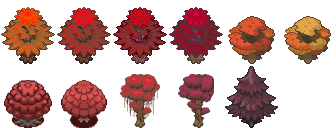
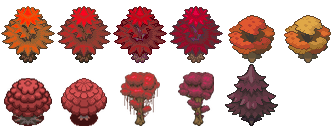
Tour Carillon : torii, pagodes, sanctuaires, clôtures et piliers Edo
- nouveaux types de décor `pagoda`, `shrine`, `chapel`, `fence`, `ruin` (maps.js) posés après tout le reste avec un tirage aléatoire à part : décors, coffres, feux et ennemis de la carte restent identiques (vérifié par hash), tout reste accessible
- le torii existant prend le sprite `torii_bell`
- sprites : planche Shinto Temple Buildings (torii, grande pagode, grand et petit sanctuaires, toits recolorés vin) + pagodes et temples de Gen 4/5 recolorés carmin, clôtures et piliers brisés (assets/props/edo_*.png, props.json)
- lumière chaude sur sanctuaires et chapelles ; crédits, sw.js v68, README des props, outil tools/edo

Claude-Session: https://claude.ai/code/session_01UgjerJFwuUbKpmG3RBZnLe

diff --git a/js/maps.js b/js/maps.js
@@ -13,7 +13,8 @@ export const THEMES = {
   lava: { floor: [66, 40, 38], arena: [78, 42, 34], wallA: '#5a3430', wallB: '#56302c', face: '#321a18', faceTop: '#8a5040', accent: [255, 130, 50], accent2: [255, 200, 90], fx: 'lava', amb: [200, 150, 130], ambArena: [210, 130, 100], decor: ['brazier', 'rock', 'crystal'] },
   rock: { floor: [72, 64, 58], arena: [86, 72, 52], wallA: '#5e5248', wallB: '#5a4e44', face: '#38302a', faceTop: '#8a7a68', accent: [255, 200, 110], accent2: [200, 170, 120], fx: 'stone', amb: [175, 165, 155], ambArena: [185, 160, 120], decor: ['rock', 'pillar', 'brazier'] },
   // Johto : Japon d'Edo (bois sombre, papier, laque, lanternes). Tour Carillon : jardins et cours d'un temple en plein air, sous l'orage
-  bell: { floor: [92, 88, 80], arena: [128, 122, 108], wallA: '#6e675c', wallB: '#675f55', face: '#3a342e', faceTop: '#9a9080', accent: [255, 206, 96], accent2: [130, 200, 255], fx: 'garden', open: true, amb: [196, 184, 182], ambArena: [214, 190, 160], decor: ['lantern', 'tree', 'bell', 'torii', 'tree'] },
+  bell: { floor: [92, 88, 80], arena: [128, 122, 108], wallA: '#6e675c', wallB: '#675f55', face: '#3a342e', faceTop: '#9a9080', accent: [255, 206, 96], accent2: [130, 200, 255], fx: 'garden', open: true, amb: [196, 184, 182], ambArena: [214, 190, 160], decor: ['lantern', 'tree', 'bell', 'torii', 'tree'],
+    scenery: { rooms: { 1: ['chapel'], 2: ['pagoda'], 3: ['shrine'], 4: ['chapel'], 5: ['pagoda'], 6: ['shrine'] }, fence: 1, ruin: 1 } },   // bâtiments adossés au bord nord des salles, clôtures et piliers brisés (posés après tout le reste)
   mystic: { floor: [36, 68, 62], arena: [52, 50, 86], wallA: '#27494a', wallB: '#244446', face: '#142a2c', faceTop: '#3e7a76', accent: [255, 170, 230], accent2: [160, 255, 220], fx: 'moss', amb: [150, 180, 175], ambArena: [150, 130, 200], decor: ['tree', 'crystal', 'statue'] },
 };
 
@@ -67,7 +68,7 @@ setChapter('kanto');
 function rng(seed) { let s = seed >>> 0 || 1; return () => { s ^= s << 13; s >>>= 0; s ^= s >>> 17; s ^= s << 5; s >>>= 0; return s / 4294967296; }; }
 const rnd = (x, y, s = 0) => { let h = (x * 374761393 + y * 668265263 + s * 2147483647) | 0; h = (h ^ (h >>> 13)) * 1274126177; return ((h ^ (h >>> 16)) >>> 0) / 4294967295; };
 
-const FOOT = { tank: [2, 2], tankbroken: [2, 2], pillar: [1, 1], mirror: [1, 1], console: [2, 1], rock: [1, 1], crystal: [1, 1], brazier: [1, 1], generator: [2, 2], tree: [2, 2], statue: [1, 1], chest: [1, 1], lantern: [1, 1], bell: [2, 2], torii: [2, 1] };
+const FOOT = { tank: [2, 2], tankbroken: [2, 2], pillar: [1, 1], mirror: [1, 1], console: [2, 1], rock: [1, 1], crystal: [1, 1], brazier: [1, 1], generator: [2, 2], tree: [2, 2], statue: [1, 1], chest: [1, 1], lantern: [1, 1], bell: [2, 2], torii: [2, 1], pagoda: [3, 1], shrine: [4, 1], chapel: [3, 1], fence: [1, 1], ruin: [1, 1] };
 
 // ---------- carte du laboratoire (dessinée à la main) ----------
 const LAB = (() => {
@@ -266,6 +267,21 @@ function generate(def) {
       }
     }
   }
+  // Décors Edo (th.scenery) : posés en dernier, avec un tirage aléatoire à part et sans toucher à ce qui existe déjà (décors, coffres, feux, ennemis restent identiques).
+  // Bâtiments adossés au bord nord des salles (le sprite déborde vers le haut, derrière le joueur), clôtures en petites rangées sur les bords, piliers brisés.
+  if (def.scenery) {
+    const S = def.scenery, R2 = rng((def.seed * 7 + 977) >>> 0);
+    if (secret) secret.gap.forEach(([gx, gy]) => reserve(gx, gy, 1, 1, 1));   // l'entrée de la salle secrète reste dégagée
+    const put = (kind, x, y, k, pad, vseed) => { const [w, h] = FOOT[kind]; if (!free(x, y, w, h)) return false; reserve(x, y, w, h, pad); decor.push({ kind, tx: x, ty: y, room: k, vseed }); return true; };   // vseed : variante imposée (une rangée de clôture garde le même modèle)
+    rooms.forEach((r, k) => {
+      for (const kind of (S.rooms[k] || [])) { const w = FOOT[kind][0]; for (let t = 0; t < 40; t++) if (put(kind, r.x + 1 + Math.floor(R2() * Math.max(1, r.w - 2 - w + 1)), r.y, k, 1)) break; }
+      for (let n = 0; n < (S.fence || 0) && k > 0; n++) {   // rangée de 2 à 4 morceaux sur le bord nord ou sud
+        const len = 2 + Math.floor(R2() * 3), y = R2() < 0.5 ? r.y : r.y + r.h - 1, vs = Math.floor(R2() * 2);
+        for (let t = 0; t < 20; t++) { const x = r.x + 1 + Math.floor(R2() * Math.max(1, r.w - 2 - len + 1)); if (!free(x, y, len, 1)) continue; for (let i = 0; i < len; i++) put('fence', x + i, y, k, 0, vs); break; }
+      }
+      for (let n = 0; n < (S.ruin || 0) && k > 0; n++) for (let t = 0; t < 30; t++) if (put('ruin', r.x + 1 + Math.floor(R2() * (r.w - 2)), r.y + 1 + Math.floor(R2() * (r.h - 2)), k, 1)) break;
+    });
+  }
   return { rooms, decor, spawns, chests, arena, door, fog, bonfires, start, grid, roomOf, secret, modules };
 }
 
@@ -283,12 +299,12 @@ export function buildWorld(idx) {
     for (const d of L.decor) { const [w, h] = FOOT[d.kind]; for (let j = 0; j < h; j++) for (let i = 0; i < w; i++) grid[(d.ty + j) * MW + d.tx + i] = T.SOLID; }
     LAB.door.tiles.forEach(([x, y]) => { grid[y * MW + x] = T.DOOR; }); LAB.fog.tiles.forEach(([x, y]) => { grid[y * MW + x] = T.FOG; });
   } else {
-    const g = generate({ ...def, decorKinds: th.decor });
+    const g = generate({ ...def, decorKinds: th.decor, scenery: th.scenery });
     L = g;
     for (const d of L.decor) { const [w, h] = FOOT[d.kind]; for (let j = 0; j < h; j++) for (let i = 0; i < w; i++) L.grid[(d.ty + j) * MW + d.tx + i] = T.SOLID; }
   }
   for (const c of L.chests) L.grid[c.ty * MW + c.tx] = T.SOLID;
-  for (const d of L.decor) { const [w, h] = FOOT[d.kind]; d.w = w; d.h = h; d.seed = (d.tx * 31 + d.ty * 17) % 97; }
+  for (const d of L.decor) { const [w, h] = FOOT[d.kind]; d.w = w; d.h = h; d.seed = d.vseed ?? (d.tx * 31 + d.ty * 17) % 97; }
   Object.assign(world, { grid: L.grid, roomOf: L.roomOf, rooms: L.rooms, decor: L.decor, spawns: L.spawns, arena: L.arena, door: L.door, fog: L.fog, bonfires: L.bonfires, start: L.start, chests: L.chests.map((c, i) => ({ ...c, id: i })), secret: L.secret ? { ...L.secret, opened: false } : null, modules: L.modules || [] });
   computeWall(world);
   return world;
@@ -561,6 +577,7 @@ export function decorLight(world, d, opened) {
   if (d.kind === 'brazier') return { x: (d.tx + 0.5) * TS, y: (d.ty + 0.1) * TS, r: 70, c: [255, 150, 60] };
   if (d.kind === 'lantern') return { x: (d.tx + 0.5) * TS, y: (d.ty + 0.1) * TS, r: 74, c: [255, 190, 90] };
   if (d.kind === 'bell') return { x: (d.tx + 1) * TS, y: (d.ty + 0.4) * TS, r: 48, c: [130, 180, 255] };
+  if (d.kind === 'chapel' || d.kind === 'shrine') return { x: (d.tx + d.w / 2) * TS, y: (d.ty + 0.6) * TS, r: 64, c: [255, 170, 100] };
   if (d.kind === 'generator') return { x: (d.tx + 1) * TS, y: (d.ty + 0.3) * TS, r: 50, c: A };
   if (d.kind === 'tree') return { x: (d.tx + 1) * TS, y: (d.ty + 0.2) * TS, r: 56, c: A };
   if (d.kind === 'statue') return { x: (d.tx + 0.5) * TS, y: (d.ty + 0.3) * TS, r: 28, c: th.accent2 };

diff --git a/js/ui.js b/js/ui.js
@@ -290,7 +290,7 @@ export function showCredits(onClose) {
   const m = open(`<div class="panel wide"><h2>Crédits</h2>
     <h4>Musique libre de repli (OpenGameArt.org)</h4><div class="cred">${Object.entries(TRACKS).filter(([, t]) => t.url).map(([id, t]) => `<div class="krow"><span><b>${esc(t.title)}</b> — ${esc(t.author)} <small>(${esc(t.use)})</small></span><a href="${t.url}" target="_blank" rel="noopener">${esc(t.license)}</a></div>`).join('')}</div>
     <h4>Sprites</h4><p class="sub">PMDCollab SpriteCollab (CC BY-NC 4.0), merci à tous les artistes du projet.</p>
-    <h4>Décors et objets</h4><p class="sub">Icônes d'objets : PokéAPI/sprites (Nintendo / Game Freak). Poké Ball : sprite de Pokémon Rubis/Saphir (Game Freak / Nintendo) via The Spriters Resource. Feu de camp et cristaux/piliers de glace : feuilles pixel art fournies pour le projet (auteurs à préciser). Arbres de la Tour Carillon (érables) : tilesets Pokémon de ChaoticCherryCake et Red Autumn Forest de CertifiedDonTheShark (DeviantArt), recolorés pour le projet.</p>
+    <h4>Décors et objets</h4><p class="sub">Icônes d'objets : PokéAPI/sprites (Nintendo / Game Freak). Poké Ball : sprite de Pokémon Rubis/Saphir (Game Freak / Nintendo) via The Spriters Resource. Feu de camp et cristaux/piliers de glace : feuilles pixel art fournies pour le projet (auteurs à préciser). Arbres de la Tour Carillon (érables) : tilesets Pokémon de ChaoticCherryCake, Justin8964 et HongGBA, Red Autumn Forest de CertifiedDonTheShark, Shinto Temple Buildings d'Unusable (DeviantArt), découpés et recolorés pour le projet ; torii, sanctuaires et pagodes Edo de la Tour Carillon.</p>
     <h4>Effets d'attaque</h4><p class="sub">effets pixel art de PMDCollab / Pokémon Mystery Dungeon (projet de fan non commercial) ; Dämmerlicht BFX par KotatsuAkira (gratuit, crédit demandé) ; PIPO Fire par PIPOSCHPATZ (CC BY 4.0) ; Water Cannon par Anton Chi.</p>
     <h4>Mentions</h4><p class="sub">Pokémon est une marque de Nintendo / Creatures Inc. / GAME FREAK inc. Ce fan game non commercial n'est ni affilié ni approuvé par eux. Code et effets sonores : ce dépôt.</p>
     <div class="act"><button id="m-close">Fermer</button></div></div>`);

diff --git a/sw.js b/sw.js
@@ -2,7 +2,7 @@
 // - Code et données (HTML, JS, CSS, JSON) : réseau d'abord, copie locale si hors ligne ou réseau lent, donc les mises à jour arrivent tout de suite.
 // - Médias (assets/ : sprites, effets, musiques) : copie locale d'abord, remplie au fil du jeu. Ce qui a déjà été joué reste disponible hors ligne.
 // Changer VERSION invalide toutes les copies locales.
-const VERSION = 'v67';
+const VERSION = 'v68';
 const SHELL = `pokesouls-shell-${VERSION}`;
 const MEDIA = `pokesouls-media-${VERSION}`;
 const SHELL_FILES = [

diff --git a/tools/edo/build_edo.py b/tools/edo/build_edo.py
@@ -9,7 +9,19 @@ SRC, OUT = sys.argv[1], sys.argv[2]; os.makedirs(OUT, exist_ok=True)
 F = {'c4': 'pokemon_tileset_from_public_tiles_by_chaoticcherrycake_d5xdb0y.png',
      'jh': 'dppt_and_hgss_tileset_by_justin8964_dg9nal7.png',
      'red': 'red_autumn_forest_tileset_pokemon_essentials_gen_3_by_certifieddontheshark_dl706n1.png'}
-A = {k: seg.load(os.path.join(SRC, v)) for k, v in F.items()}
+F['sh'] = 'shinto_temple_buildings_by_unusable_djfv2wn.png'
+def find(v):
+    for d in ('', 'japanese-tileset'):
+        p = os.path.join(SRC, d, v)
+        if os.path.exists(p): return p
+    raise FileNotFoundError(v)
+def load_flat(path, bg=(128, 125, 120), tol=3):
+    # planche à fond uni opaque : le fond est ôté par remplissage depuis les bords
+    from scipy import ndimage as ndi
+    a = np.array(Image.open(path).convert('RGBA')); m = (np.abs(a[..., :3].astype(int) - np.array(bg)).max(axis=2) <= tol)
+    lab, n = ndi.label(m); border = set(np.unique(np.concatenate([lab[0], lab[-1], lab[:, 0], lab[:, -1]]))) - {0}
+    a[np.isin(lab, list(border))] = 0; return a
+A = {k: (load_flat(find(v)) if k == 'sh' else seg.load(find(v))) for k, v in F.items()}
 
 def rgb2hsv(a):
     r, g, b = [a[..., i].astype(np.float32) / 255 for i in range(3)]
@@ -91,6 +103,15 @@ add('ruin_pillar_a', crop('c4', (864, 893, 897, 960)), 'pilier brisé')
 add('ruin_pillar_b', crop('c4', (864, 960, 897, 1026)), 'pilier brisé haut')
 add('bridge_red',   crop('c4', (10, 1170, 530, 1350)), 'pont rouge en arc')
 
+
+# ---------- sanctuaire shinto (planche d'Unusable) : toits olive -> vin, piliers vermillon conservés ----------
+def wine(a): return recolor(a, 30, 95, 352, keep=0.35, sat=0.95, val=0.82, smin=0.12)
+add('torii_vermilion', wine(crop('sh', (835, 83, 1049, 248), True)), 'torii vermillon, toit vin')
+add('pagoda_shinto',   wine(crop('sh', (512, 63, 769, 510), True)), 'pagode shinto 3 étages, toits vin')
+add('shrine_hall',     wine(crop('sh', (81, 190, 452, 511), True)), 'grand sanctuaire, toits vin')
+add('shrine_small',    wine(crop('sh', (858, 284, 1044, 510), True)), 'petit sanctuaire, toits vin')
+add('pagoda_shinto_o', crop('sh', (512, 63, 769, 510), True), 'pagode shinto, toits d\'origine (olive)')
+
 # ---------- planche de contrôle ----------
 names = list(S); cols = 6; sc = 2; pad = 10
 cw = max(max(S[n][0].shape[1] for n in names), 120) * sc + pad; ch = 0
@@ -113,15 +134,30 @@ for n, (arr, note) in S.items(): Image.fromarray(arr).save(os.path.join(OUT, 'sp
 json.dump({n: {'w': int(S[n][0].shape[1]), 'h': int(S[n][0].shape[0]), 'note': S[n][1]} for n in S}, open(os.path.join(OUT, 'sprites.json'), 'w'), ensure_ascii=False, indent=1)
 print(len(S), 'sprites', sheet.size)
 
-# ---------- feuille de jeu : arbres de la Tour Carillon (props.json -> tree_bell) ----------
+# ---------- feuilles de jeu (assets/props/edo_*.png) + entrées props.json ----------
+# Chaque feuille : cellules uniformes, sprites centrés, pieds en bas, réduits à l'échelle donnée (l'empreinte d'un décor est en cases de 24 px).
+PACKS = {
+  'trees':  ('tree_bell',   6, [('momiji_gold', 1), ('momiji_vermilion', 1), ('momiji_red', 1), ('momiji_carmine', 1), ('tree_autumn0', 1), ('tree_autumn1', 1),
+                                ('tree_red_a', .5), ('tree_red_b', .5), ('momiji_big', .5), ('momiji_big2', .5), ('tree_cypress', 1)]),
+  'torii':  ('torii_bell',  1, [('torii_vermilion', .28)]),
+  'pagoda': ('pagoda_bell', 3, [('pagoda_shinto', .27), ('pagoda_purple', .5), ('pagoda_blue', .55)]),
+  'shrine': ('shrine_bell', 2, [('shrine_hall', .26), ('temple_purple', .68)]),
+  'chapel': ('chapel_bell', 3, [('shrine_small', .31), ('house_purple', 1), ('hut_thatch', 1), ('shrine_red', .75)]),
+  'fence':  ('fence_bell',  2, [('fence_picket', .5), ('fence_slat', .5)]),
+  'ruin':   ('ruin_bell',   2, [('ruin_pillar_a', .6), ('ruin_pillar_b', .6)]),
+}
+def scaled(n, k):
+    im = Image.fromarray(S[n][0])
+    if k != 1: im = im.convert('RGBa').resize((max(1, round(im.width * k)), max(1, round(im.height * k))), Image.LANCZOS).convert('RGBA')
+    return im
 if len(sys.argv) > 3:
-    PACK = [('momiji_gold', 1), ('momiji_vermilion', 1), ('momiji_red', 1), ('momiji_carmine', 1), ('tree_autumn0', 1), ('tree_autumn1', 1),
-            ('tree_red_a', .5), ('tree_red_b', .5), ('momiji_big', .5), ('momiji_big2', .5), ('tree_cypress', 1)]   # (sprite, échelle) : l'empreinte d'un arbre fait 2x2 cases (48 px)
-    CW, CH = 56, 64; COLS = 6; rows_n = (len(PACK) + COLS - 1) // COLS
-    sheet2 = Image.new('RGBA', (CW * COLS, CH * rows_n), (0, 0, 0, 0))
-    for i, (n, k) in enumerate(PACK):
-        im = Image.fromarray(S[n][0])
-        if k != 1: im = im.convert('RGBa').resize((max(1, round(im.width * k)), max(1, round(im.height * k))), Image.LANCZOS).convert('RGBA')
-        assert im.width <= CW and im.height <= CH, (n, im.size)
-        sheet2.alpha_composite(im, ((i % COLS) * CW + (CW - im.width) // 2, (i // COLS) * CH + CH - im.height))   # centré, pieds en bas
-    sheet2.save(sys.argv[3]); print('arbres', sheet2.size, 'frames', len(PACK), 'cellule', CW, CH)
+    ASSET = sys.argv[3]; db = {}
+    for name, (key, cols, items) in PACKS.items():
+        ims = [scaled(n, k) for n, k in items]; cw = max(i.width for i in ims) + 2; ch = max(i.height for i in ims) + 1
+        cols = min(cols, len(ims)); rows_n = (len(ims) + cols - 1) // cols
+        sheet2 = Image.new('RGBA', (cw * cols, ch * rows_n), (0, 0, 0, 0))
+        for i, im in enumerate(ims): sheet2.alpha_composite(im, ((i % cols) * cw + (cw - im.width) // 2, (i // cols) * ch + ch - im.height))
+        fn = 'edo_%s.png' % name; sheet2.save(os.path.join(ASSET, fn))
+        db[key] = {'file': 'props/' + fn, 'fw': cw, 'fh': ch, 'cols': cols, 'frames': list(range(len(ims))), 'vary': True}
+        print(fn, sheet2.size, 'cellule', cw, ch, [i.size for i in ims])
+    json.dump(db, open(os.path.join(OUT, 'props_edo.json'), 'w'), indent=1)

diff --git a/assets/props/README.md b/assets/props/README.md
@@ -9,10 +9,11 @@ Clés reconnues (sinon le dessin procédural d'origine est utilisé) :
 | `bonfire_lit`, `bonfire_unlit` | feu de camp allumé / éteint |
 | `chest_closed`, `chest_open` | coffres : Poké Ball classique fermée / ouverte (`pokeball.png`) |
 | `pillar`, `pillar_<fx>` | piliers, par thème (`ice`, `stone`, `lava`, `moss`, `circuit`) |
+| `torii_bell`, `pagoda_bell`, `shrine_bell`, `chapel_bell`, `fence_bell`, `ruin_bell` | décors Edo de la Tour Carillon (`edo_*.png`) : torii, pagodes, sanctuaires, chapelles, clôtures, piliers brisés (variante fixe par objet) |
 | `tree_bell` | arbres de la Tour Carillon (`edo_trees.png`, 11 érables/cyprès recolorés carmin, variante fixe par objet) |
 | `pillar_ice`, `crystal_ice`, `rock_ice` | piliers, cristaux et blocs de glace (`ice.png`, variantes fixes par objet avec `vary`) |
 
 Champs : `file`, `fw`, `fh`, `frames` (indices), `fps`, `scale` (entier, pixels nets), `ax`/`ay` (ancrage 0..1), `oy`.
 Les crédits sont à ajouter dans `showCredits` (js/ui.js) pour chaque pack utilisé.
 
-Les feuilles `pokeball.png`, `campfire.png` et `ice.png` sont produites par `python3 tools/prepare_props.py`; `edo_trees.png` par `python3 tools/edo/build_edo.py SRC OUT assets/props/edo_trees.png` (sources : les planches de tilesets, hors dépôt) à partir de `tools/props_src/`.
+Les feuilles `pokeball.png`, `campfire.png` et `ice.png` sont produites par `python3 tools/prepare_props.py`; les `edo_*.png` par `python3 tools/edo/build_edo.py SRC OUT assets/props` (sources : les planches de tilesets, hors dépôt) à partir de `tools/props_src/`.
